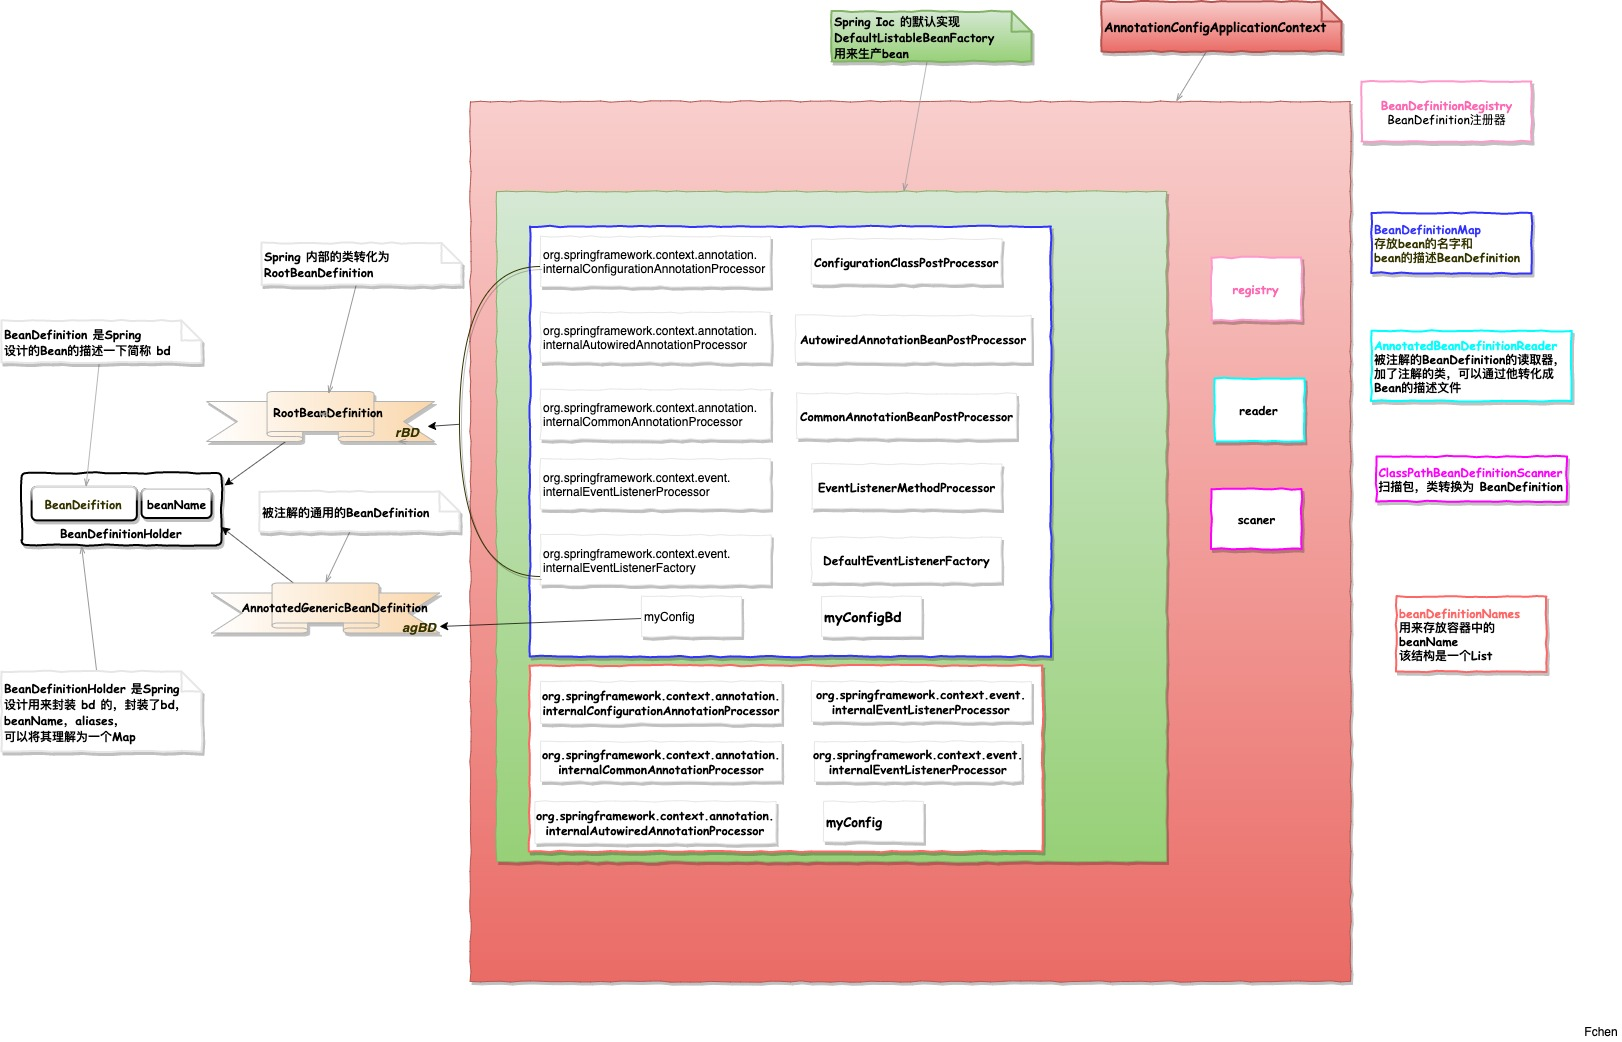
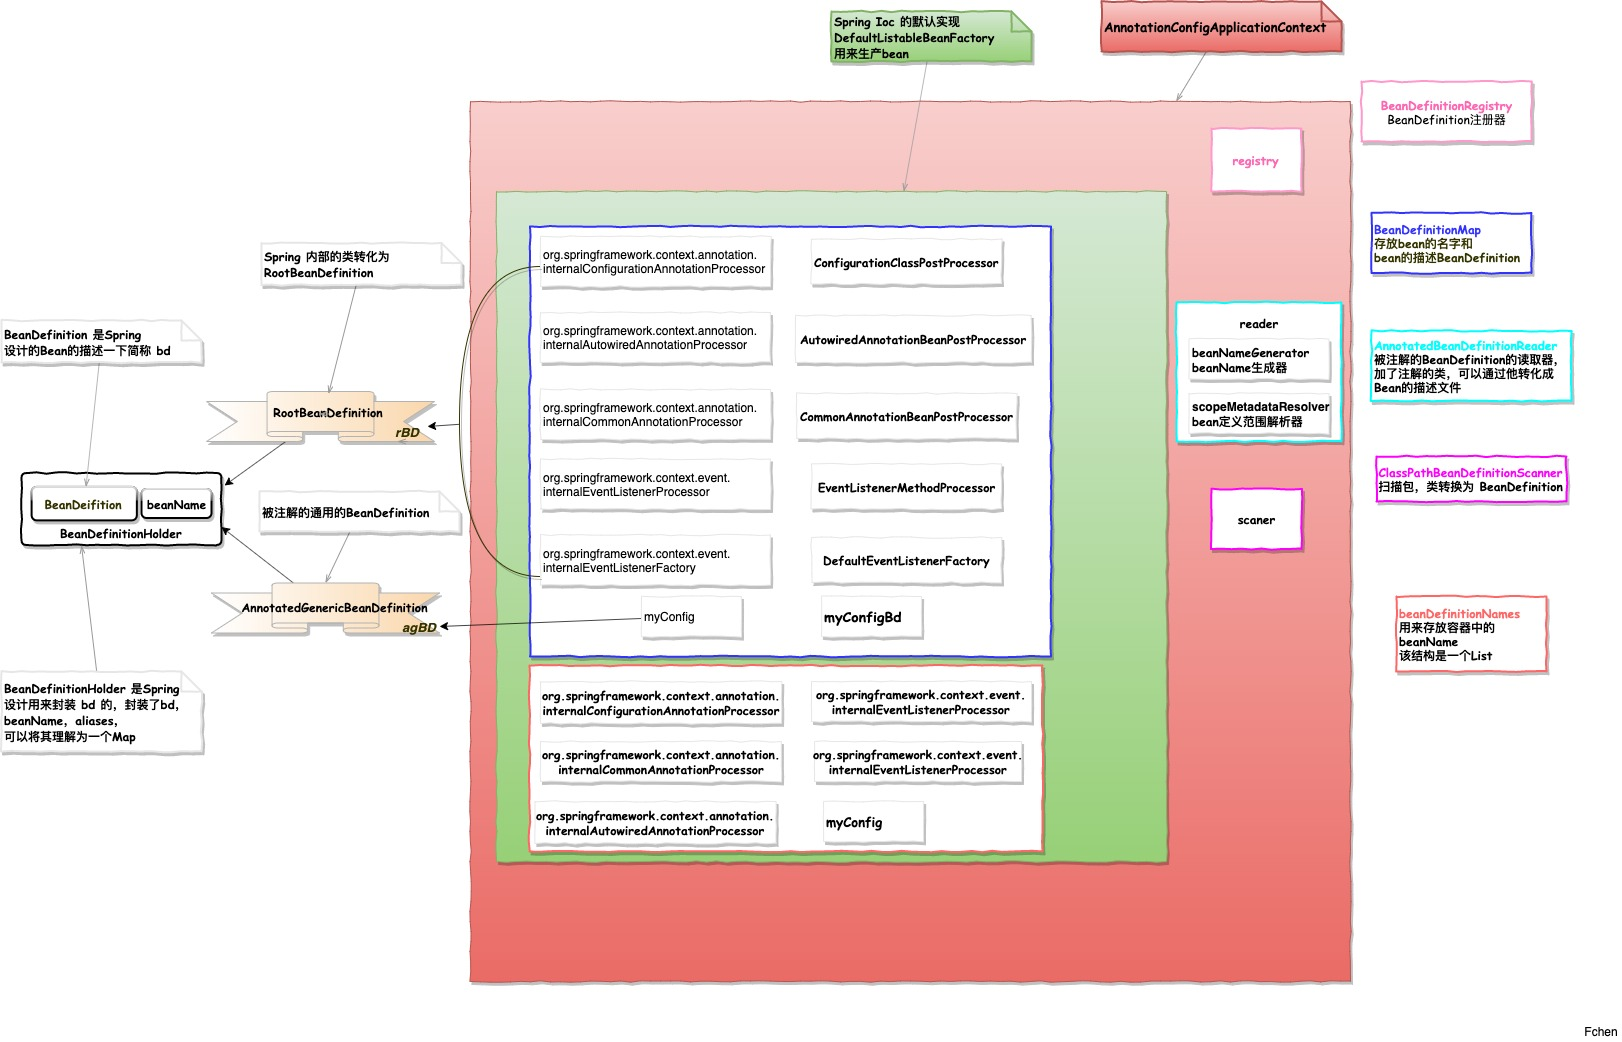
注册配置类

diff --git a/spring-src-read/src/main/java/my/md/ioc/impl/Spring容器之AnnotationConfigApplicationContext_3.md b/spring-src-read/src/main/java/my/md/ioc/impl/Spring容器之AnnotationConfigApplicationContext_3.md
@@ -138,10 +138,94 @@ public void register(Class<?>... componentClasses) {
     <img src="https://github.com/FunCheney/spring/blob/master/spring-src-read/src/main/java/my/image/ioc/beanDefinitionMap_six_object.jpg">
  </div>
  
+ #### 处理通用注解
+ ```java
+/**
+ *  处理类的通用注解
+ * @param abd spring中bean的描述类
+ * @param metadata 通过spring中bean的描述类获取 bean的元数据信息
+ *
+ *       处理完通用注解后的信息 放回到 spring中bean的描述类(AnnotatedBeanDefinition)
+ */
+static void processCommonDefinitionAnnotations(AnnotatedBeanDefinition abd, AnnotatedTypeMetadata metadata) {
+    /**
+     * 处理 @Lazy 注解
+     */
+    AnnotationAttributes lazy = attributesFor(metadata, Lazy.class);
+    if (lazy != null) {
+        /** 设置bean的懒加载信息*/
+        abd.setLazyInit(lazy.getBoolean("value"));
+    }
+    else if (abd.getMetadata() != metadata) {
+        lazy = attributesFor(abd.getMetadata(), Lazy.class);
+        if (lazy != null) {
+            abd.setLazyInit(lazy.getBoolean("value"));
+        }
+    }
+
+    /**
+     * 处理 @Primary 注解
+     */
+    if (metadata.isAnnotated(Primary.class.getName())) {
+        abd.setPrimary(true);
+    }
+
+    /**
+     * 处理 @DependsOn 注解
+     */
+    AnnotationAttributes dependsOn = attributesFor(metadata, DependsOn.class);
+    if (dependsOn != null) {
+        abd.setDependsOn(dependsOn.getStringArray("value"));
+    }
+
+    /**
+     * 处理 @Role 注解
+     */
+    AnnotationAttributes role = attributesFor(metadata, Role.class);
+    if (role != null) {
+        abd.setRole(role.getNumber("value").intValue());
+    }
+
+    /**
+     * 处理 @Description注解
+     */
+    AnnotationAttributes description = attributesFor(metadata, Description.class);
+    if (description != null) {
+        abd.setDescription(description.getString("value"));
+    }
+}
+```
+
+#### 将 `definitionHolder` 注册给 `registry`
+&ensp;&ensp;`registry` 是 `AnnotationConfigApplicationContext`，因为 `AnnotationConfigApplicationContext
+` 是 `BeanDefinitionRegistry` 的实现类。
+```java
+public static void registerBeanDefinition(
+        BeanDefinitionHolder definitionHolder, BeanDefinitionRegistry registry)
+        throws BeanDefinitionStoreException {
+
+    // Register bean definition under primary name.
+    /** 获取beanName */
+    String beanName = definitionHolder.getBeanName();
+    /**
+     * 注册 beanDefinition, beanName 与 BeanDefinition 放入Map 中
+     */
+    registry.registerBeanDefinition(beanName, definitionHolder.getBeanDefinition());
+
+    // Register aliases for bean name, if any.
+    /** 处理别名 */
+    String[] aliases = definitionHolder.getAliases();
+    if (aliases != null) {
+        for (String alias : aliases) {
+            registry.registerAlias(beanName, alias);
+        }
+    }
+}
+```
  
  ### 容器形成图
 <div align="center">
-    <img src="https://github.com/FunCheney/spring/blob/master/spring-src-read/src/main/java/my/image/ioc/annotionConfigApplication/spring_ioc_contains_1.jpg">
+    <img src="https://github.com/FunCheney/spring/blob/master/spring-src-read/src/main/java/my/image/ioc/annotionConfigApplication/spring_ioc_contains_2.jpg">
  </div>
  
  &ensp;&ensp;通过上述过程发现，定义的配置类被加载到了容器之中，这样一来容器中的对象又多了一个。这里对容器中对象的名称，
